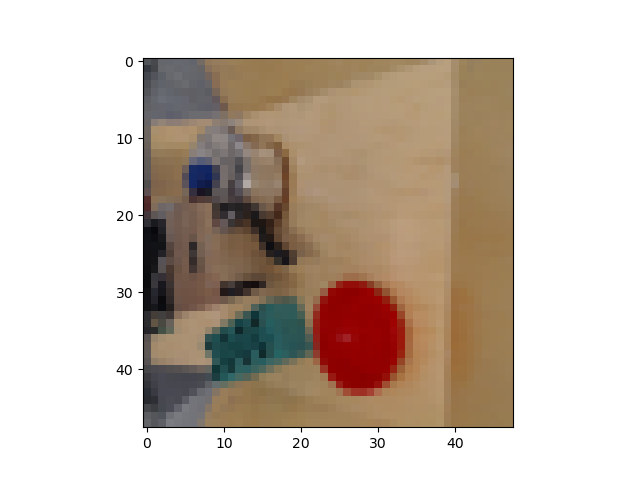
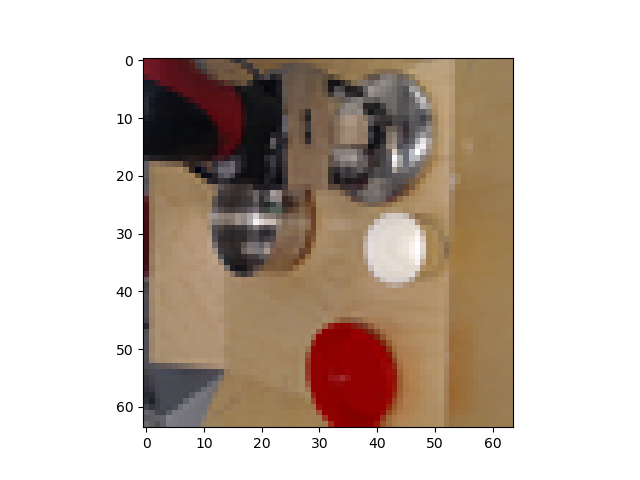
updated real + aug

diff --git a/examples/cql_real.py b/examples/cql_real.py
@@ -7,7 +7,8 @@ from rlkit.torch.sac.policies import TanhGaussianPolicy, GaussianPolicy, MakeDet
 from rlkit.torch.sac.cql import CQLTrainer
 from rlkit.torch.sac.cql_montecarlo import CQLMCTrainer
 from rlkit.torch.sac.cql_bchead import CQLBCTrainer
-from rlkit.torch.conv_networks import CNN, ConcatCNN, ConcatBottleneckCNN, TwoHeadCNN, VQVAEEncoderConcatCNN, ConcatBottleneckVQVAECNN
+from rlkit.torch.conv_networks import CNN, ConcatCNN, ConcatBottleneckCNN, TwoHeadCNN,  VQVAEEncoderConcatCNN, \
+    ConcatBottleneckVQVAECNN, VQVAEEncoderCNN
 from rlkit.torch.torch_rl_algorithm import TorchBatchRLAlgorithm
 from rlkit.util.video import VideoSaveFunction
 from rlkit.envs.dummy_env import DummyEnv
@@ -73,6 +74,7 @@ def experiment(variant):
         output_size=1,
         added_fc_input_size=action_dim,
     )
+
     if variant['vqvae_enc']:
         if variant['bottleneck']:
             qf1 = ConcatBottleneckVQVAECNN(action_dim, bottleneck_dim=variant['bottleneck_dim'],
@@ -83,6 +85,9 @@ def experiment(variant):
                                       deterministic=variant['deterministic_bottleneck'],
                                       spectral_norm_conv = cnn_params['spectral_norm_conv'],
                                       spectral_norm_fc = cnn_params['spectral_norm_fc'])
+            if variant['share_encoder']:
+                print('sharing encoder weights between QF1 and QF2!')
+                qf2.encoder = qf1.encoder
             target_qf1 = ConcatBottleneckVQVAECNN(action_dim, bottleneck_dim=variant['bottleneck_dim'],
                                              deterministic=variant['deterministic_bottleneck'],
                                              spectral_norm_conv=cnn_params['spectral_norm_conv'],
@@ -94,6 +99,10 @@ def experiment(variant):
         else:
             qf1 = VQVAEEncoderConcatCNN(**cnn_params)
             qf2 = VQVAEEncoderConcatCNN(**cnn_params)
+            if variant['share_encoder']:
+                print('sharing encoder weights between QF1 and QF2!')
+                del qf2.encoder
+                qf2.encoder = qf1.encoder
             target_qf1 = VQVAEEncoderConcatCNN(**cnn_params)
             target_qf2 = VQVAEEncoderConcatCNN(**cnn_params)
 
@@ -123,6 +132,32 @@ def experiment(variant):
     )
 
     policy_obs_processor = CNN(**cnn_params)
+
+    if variant['vqvae_policy']:
+        if variant['share_encoder']:
+            print('sharing encoder weights between QF and Policy with VQVAE Encoder')
+            policy_obs_processor = qf1.encoder
+            cnn_params.update(
+                output_size=qf1.get_conv_output_size(),
+            )
+        else:
+            cnn_params.update(
+                output_size=256,
+                added_fc_input_size=0,
+                hidden_sizes=[1024, 512],
+                spectral_norm_fc=False,
+                spectral_norm_conv=False,
+            )
+            policy_obs_processor = VQVAEEncoderCNN(**cnn_params)
+    else:
+        cnn_params.update(
+            output_size=256,
+            added_fc_input_size=0,
+            hidden_sizes=[1024, 512],
+            spectral_norm_fc=False,
+            spectral_norm_conv=False,
+        )
+        policy_obs_processor = CNN(**cnn_params)
 
     if variant['guassian_policy']:
         policy = GaussianPolicy(
@@ -174,7 +209,7 @@ def experiment(variant):
     if args.buffer in [4]:
         replay_buffer = pickle.load(open(path,'rb'))
     else:
-        replay_buffer = get_buffer(observation_key=observation_key)
+        replay_buffer = get_buffer(observation_key=observation_key, color_jitter = variant['color_jitter'])
         for path, rew_path in paths:
             load_path(path, rew_path, replay_buffer)
 
@@ -186,10 +221,9 @@ def experiment(variant):
         print('no validation')
         replay_buffer_val = None
 
-    # Translate 0/1 rewards to +4/+10 rewards.
+    # Translate 0/1 rewards to +0/+10 rewards.
     if variant['use_positive_rew']:
-        replay_buffer._rewards *= 4
-        replay_buffer._rewards -= 2
+        replay_buffer._rewards *= 10
 
     if variant['mcret']:
         trainer = CQLMCTrainer(
@@ -370,7 +404,7 @@ if __name__ == "__main__":
     parser.add_argument("--use-lagrange", action="store_true", default=False)
     parser.add_argument("--lagrange-thresh", default=5.0, type=float,
                         help="Value of tau, used with --use-lagrange")
-    parser.add_argument("--use-positive-rew", action="store_true", default=False)
+    parser.add_argument("--use-positive-rew", action="store_false", default=True)
     parser.add_argument("--duplicate", action="store_true", default=False)
     parser.add_argument("--val", action="store_true", default=False)
     parser.add_argument("--max-q-backup", action="store_true", default=False,
@@ -393,7 +427,8 @@ if __name__ == "__main__":
     parser.add_argument('--eval_num', default=0, type=int)
     parser.add_argument('--guassian_policy', default=False, action='store_true')
     parser.add_argument("--name", default='test', type=str)
-
+    parser.add_argument("--vqvae_policy", action="store_true", default=False)
+    parser.add_argument("--share_encoder", action="store_true", default=False)
     parser.add_argument("--discount", default=0.99, type=float)
     parser.add_argument("--bigger_net", action="store_true", default=False)
     parser.add_argument("--deeper_net", action="store_true", default=False)
@@ -403,11 +438,15 @@ if __name__ == "__main__":
     parser.add_argument("--dr3", action="store_true", default=False)
     parser.add_argument("--dr3_feat", action="store_true", default=False)
     parser.add_argument("--dr3_weight", default=0.001, type=float)
+    parser.add_argument("--color_jitter", action="store_true", default=False)
 
     args = parser.parse_args()
     enable_gpus(args.gpu)
     variant['guassian_policy'] = args.guassian_policy
+    variant['color_jitter'] = args.color_jitter
     variant['val'] = args.val
+    variant['vqvae_policy'] = args.vqvae_policy
+    variant['share_encoder'] = args.share_encoder
 
     variant['trainer_kwargs']['discount'] = args.discount
     variant['bigger_net'] = args.bigger_net

diff --git a/rlkit/data_management/augmentation.py b/rlkit/data_management/augmentation.py
@@ -1,0 +1,66 @@
+from torchvision.transforms import ColorJitter, RandomResizedCrop, Resize
+import torchvision.transforms.functional as F
+import rlkit.torch.pytorch_util as ptu
+import sys
+from PIL import Image
+import cv2
+import numpy as np
+import torch
+from torchvision import transforms
+
+def batch_crop(x, img_size = (3,64,64)):
+    flag = type(x) != torch.Tensor
+    if flag:
+        x = torch.from_numpy(x)
+    x = x.detach().clone()
+    y = x.reshape(-1, *img_size).float()
+    for i in range(y.shape[0]):
+        x[i] = crop(y[i])
+    if flag:
+        return x.cpu().numpy()
+    else:
+        return x
+
+def crop(x, SIZE = 64):
+    jitter = ColorJitter((0.75,1.25), (0.9,1.1), (0.9,1.1), (-0.1,0.1))
+    cropper = RandomResizedCrop((SIZE, SIZE), (0.9, 1.0), (0.9, 1.1))
+    c = cropper.get_params(x, (0.9, 1.0), (0.9, 1.1))
+    j = jitter.get_params((0.75,1.25), (0.9,1.1), (0.9,1.1), (-0.1,0.1))
+    
+    x1 = transforms.ToPILImage()(x)
+    # x1 = F.resized_crop(x, c[0], c[1], c[2], c[3], (SIZE, SIZE), Image.ANTIALIAS)
+    x1 = np.array(j(x1)) / 255
+    img1 = torch.from_numpy(x1.transpose([2, 0, 1]).flatten())
+    return img1
+
+if __name__ == '__main__':
+    from rlkit.data_management.load_buffer_real import *
+
+    import matplotlib.pyplot as plt
+    def plot_img(obs_img, save='a.png'):
+        plt.figure()
+        if type(obs_img) == torch.Tensor:
+            im_new = transforms.ToPILImage()(obs_img)
+        else:
+            im_new = obs_img
+        plt.imshow(im_new)
+        plt.savefig('/nfs/kun1/users/asap7772/cog/' + save)
+        plt.show()
+
+    observation_key = 'image'
+    paths = []
+    data_path = '/nfs/kun1/users/ashvin/data/val_data'
+
+    replay_buffer = get_buffer(observation_key=observation_key)
+    paths.append((os.path.join(data_path,'fixed_pot_demos.npy'), os.path.join(data_path,'fixed_pot_demos_putlidon_rew.pkl')))
+    for path, rew_path in paths:
+        load_path(path, rew_path, replay_buffer)
+    batch = replay_buffer.random_batch(256)
+    
+    # import ipdb; ipdb.set_trace()
+    images = torch.from_numpy(batch['observations']).float()
+    plot_img(images[0].reshape(3,64,64), save='a.png')
+    while True:
+        import ipdb; ipdb.set_trace()
+        images_new = batch_crop(images).reshape(-1,3,64,64)
+        plot_img(images_new[0], save='b.png')

diff --git a/rlkit/data_management/obs_dict_replay_buffer.py b/rlkit/data_management/obs_dict_replay_buffer.py
@@ -3,6 +3,7 @@ from gym.spaces import Dict, Discrete
 
 from rlkit.data_management.replay_buffer import ReplayBuffer
 import typing
+from rlkit.data_management.augmentation import crop, batch_crop
 
 
 class ObsDictRelabelingBuffer(ReplayBuffer):
@@ -295,6 +296,8 @@ class ObsDictReplayBuffer(ReplayBuffer):
             color_segment = False,
             target_segment = 'fixed_other',
             state_dim=3,
+            color_jitter=False,
+            jit_percent = 0.1,
     ):
         """
 
@@ -310,6 +313,9 @@ class ObsDictReplayBuffer(ReplayBuffer):
             internal_keys = list(observation_key) if isinstance(observation_key, tuple) else [observation_key]
         else:
             internal_keys.append(observation_key)
+
+        self.color_jitter = color_jitter
+        self.jit_percent = jit_percent
         self.internal_keys = internal_keys
         # assert isinstance(observation_keys, typing.Iterable)
         assert isinstance(env.observation_space, Dict)
@@ -461,7 +467,6 @@ class ObsDictReplayBuffer(ReplayBuffer):
                     self._object_positions[buffer_slice] = object_positions[path_slice]
 
                 for key in self.ob_keys_to_save + self.internal_keys:
-                    import ipdb; ipdb.set_trace()
                     self._obs[key][buffer_slice] = obs[key][path_slice]
                     self._next_obs[key][buffer_slice] = next_obs[key][
                         path_slice]
@@ -562,10 +567,14 @@ class ObsDictReplayBuffer(ReplayBuffer):
         if self.color_segment:
             self.color_segment_img(obs, target=self.target_segment)
             self.color_segment_img(next_obs, target=self.target_segment)
+
         if self.observation_key == 'image':
             obs = normalize_image(obs)
             next_obs = normalize_image(next_obs)
-
+        
+        if self.color_jitter and np.random.rand() < self.jit_percent:
+            obs = batch_crop(obs)
+            next_obs = batch_crop(next_obs)
 
         batch = {}
 

diff --git a/rlkit/data_management/load_buffer_real.py b/rlkit/data_management/load_buffer_real.py
@@ -9,32 +9,34 @@ import pickle
 
 # TODO Clean up this file
 MAX_SIZE = int(1E5)
-def get_buffer(observation_key='image', buffer_size=MAX_SIZE, image_shape=(64,64,3), imgstate=False):
+def get_buffer(observation_key='image', buffer_size=MAX_SIZE, image_shape=(64,64,3), imgstate=False, color_jitter=False):
     expl_env = DummyEnv(image_shape=image_shape)
     replay_buffer = ObsDictReplayBuffer(
         buffer_size,
         expl_env,
         observation_key=observation_key,
         internal_keys=None,
+        color_jitter=color_jitter,
+        jit_percent=0.1, #TODO Change
     )
     return replay_buffer
 
 import torch
 
 #Stephen commented on 6-10 because it was preventing headless rendering in bottleneck setup.
-#import matplotlib.pyplot as plt
+# import matplotlib.pyplot as plt
+# def plot_img(obs_img):
+#     plt.figure()
+#     if type(obs_img) == torch.Tensor:
+#         im_new = transforms.ToPILImage()(obs_img)
+#     else:
+#         im_new = obs_img
+#     plt.imshow(im_new)
+#     plt.savefig('/nfs/kun1/users/asap7772/cog/a.png')
+#     plt.show()
+
 from torchvision import transforms
 from skimage.transform import rescale, resize, downscale_local_mean
-
-def plot_img(obs_img):
-    plt.figure()
-    if type(obs_img) == torch.Tensor:
-        im_new = transforms.ToPILImage()(obs_img)
-    else:
-        im_new = obs_img
-    plt.imshow(im_new)
-    plt.savefig('/nfs/kun1/users/asap7772/cog/a.png')
-    plt.show()
 
 def resize_small(img):
     if img.shape[0] == 6912 or img.flatten().shape[0] == 921600:
